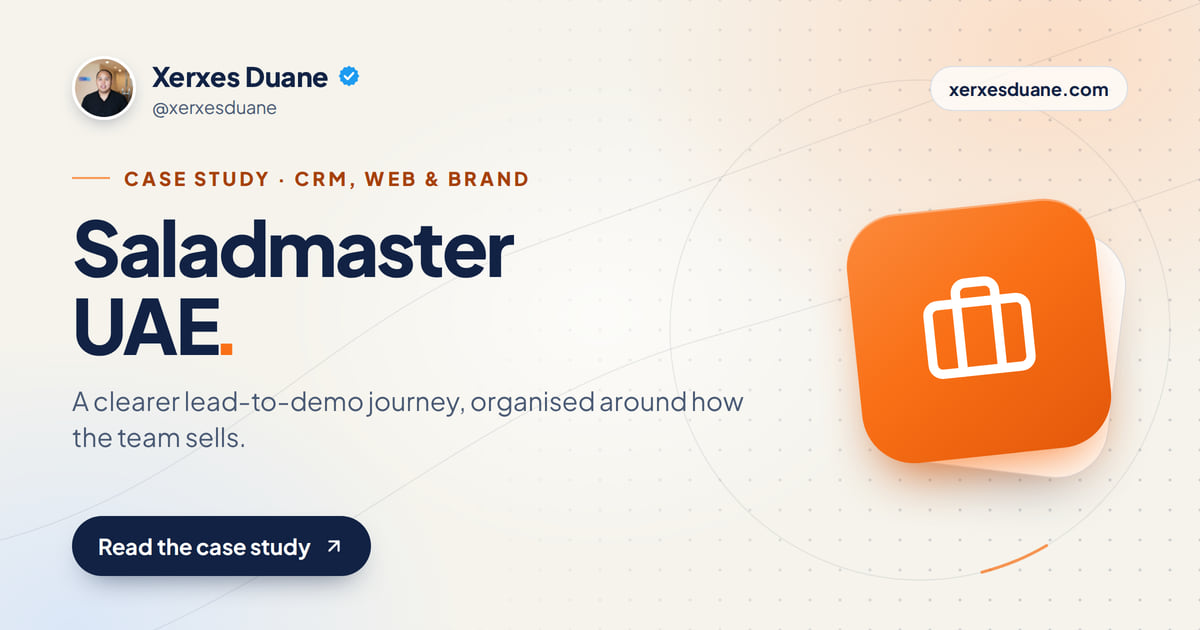
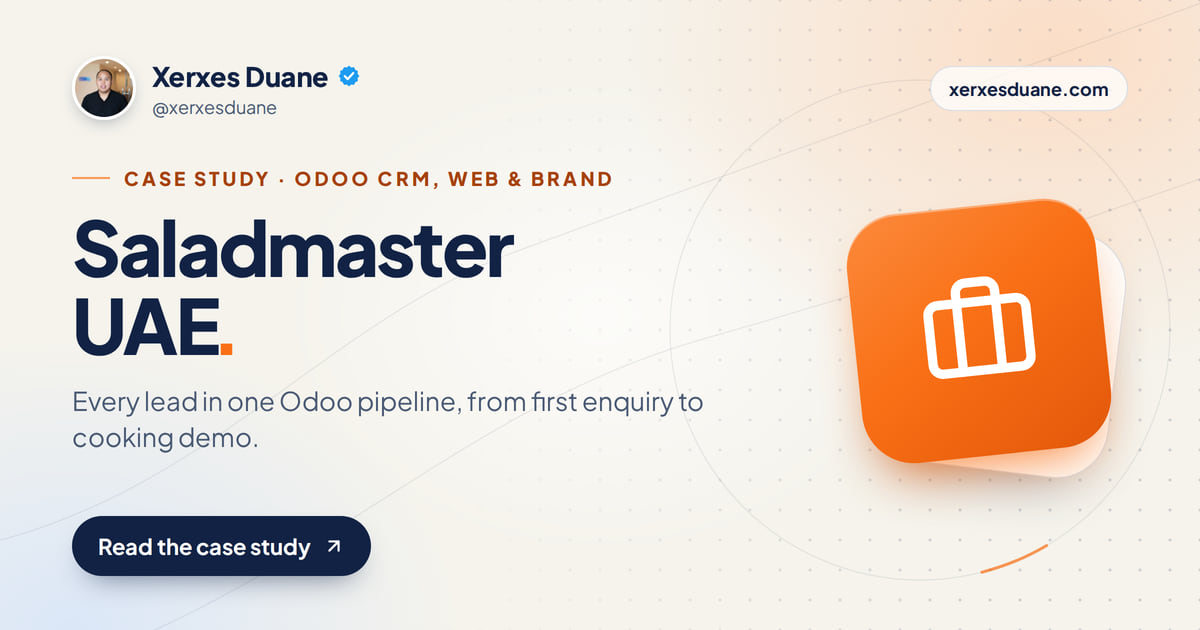
Saladmaster case study: Odoo CRM, lead sources and automation
Adds the facts the owner confirmed on 9 Oct 2026: the CRM is Odoo; leads
from the website, WhatsApp, cooking demos/events and referrals go into one
pipeline; demo bookings sit on a calendar tied to each lead; team reminders,
WhatsApp/email follow-up sequences and pipeline/sales dashboards. URL kept.
No outcome or timeline yet (open in docs/case-study-briefs.md). New share
card, so OG_IMAGE_VERSION is bumped.

Claude-Session: https://claude.ai/code/session_01J4BMNAVeyfMRXf7zEAakke

Changed region(s): [[0.0617, 0.6032, 0.6167, 0.7238], [0.2467, 0.2714, 0.5242, 0.3016]]

diff --git a/src/data/content.ts b/src/data/content.ts
@@ -457,10 +457,10 @@ export const CASE_STUDIES: CaseStudy[] = [
   {
     slug: "saladmaster-crm-web",
     metaDescription:
-      "CRM, web and brand work for Saladmaster UAE, a premium cookware business: a clearer lead-to-demo journey built around how the sales team actually works.",
+      "Odoo CRM for Saladmaster UAE, a premium cookware business: website, WhatsApp, demo and referral leads in one pipeline, with follow-up automation and dashboards.",
     client: "Saladmaster UAE",
     location: "UAE · Premium Cookware",
-    category: "CRM, Web & Brand",
+    category: "Odoo CRM, Web & Brand",
     // Not a mismatch: Saladmaster UAE trades as Al Mumtaz, and this is their
     // mark — the same pairing the portfolio uses for the brand-identity piece
     // ("Saladmaster UAE (Al Mumtaz)", saladmasteruae.me) in data/workItems.ts.
@@ -468,12 +468,16 @@ export const CASE_STUDIES: CaseStudy[] = [
     challenge:
       "A premium cookware and direct-sales brand needed a smoother customer journey, from first inquiry through cooking demo to sale, with real visibility into follow-ups.",
     summary:
-      "A clearer lead-to-demo journey, with customer information and follow-up activity organized around the way the sales team actually works.",
+      "Odoo CRM set up as one pipeline for leads from the website, WhatsApp, cooking demos and referrals, with demo bookings, team reminders, follow-up sequences and dashboards built around how the sales team works.",
+    // Platform, lead sources and automation confirmed by the owner (9 Oct
+    // 2026). No outcome or timeline yet: add `outcomes` when there is one the
+    // client agrees with. See docs/case-study-briefs.md.
     approach: [
-      "Mapped the journey from enquiry to cooking demo and sale",
-      "Structured lead capture and follow-up around real sales conversations",
-      "Connected the website and booking experience to customer management",
-      "Created clearer visibility for the team without adding admin overhead",
+      "Set up Odoo CRM as the one record for every lead and customer",
+      "Brought website, WhatsApp, cooking-demo and event, and referral leads into the same pipeline",
+      "Tied cooking-demo bookings to a calendar linked to each lead",
+      "Automated reminders for the team and WhatsApp and email follow-up sequences for leads",
+      "Built pipeline and sales dashboards for the owner",
     ],
     relatedServices: [
       "crm-development-dubai",
@@ -481,16 +485,19 @@ export const CASE_STUDIES: CaseStudy[] = [
       "branding-graphic-design-dubai",
     ],
     scope: [
-      "Lead capture & inquiries",
-      "Booking for cooking demos",
-      "Customer relationship management",
+      "Odoo CRM",
+      "Leads from website, WhatsApp, demos & referrals",
+      "Cooking-demo booking calendar",
+      "Team reminders",
+      "WhatsApp & email follow-up sequences",
+      "Pipeline & sales dashboards",
       "Website management",
       "Logo & brand identity design",
       "Sales process organization",
       "Marketing & engagement",
     ],
     takeaway:
-      "Centralized lead management and a clearer path from inquiry to demo to conversion across sales and engagement.",
+      "Every lead in one Odoo pipeline, with demo bookings, follow-ups and reporting attached to it.",
   },
   /* HIDDEN (re-add later): Fellowship Dubai case study
   {

diff --git a/src/data/servicePages.ts b/src/data/servicePages.ts
@@ -799,7 +799,7 @@ export const SERVICE_PAGES: ServicePageData[] = [
         { label: "What you get", value: "Pipeline stages and ownership, website and WhatsApp lead capture with the source recorded, follow-up automation, dashboards, and clean-up of an existing CRM where there is one." },
         { label: "Starting price", value: `${cap(from("crm-development-dubai"))} for a CRM or dashboard build. ${NONPROFIT.label} for registered charities.` },
         { label: "Timeline", value: "A focused setup can take a few weeks; complex migrations are phased so the core pipeline is usable early." },
-        { label: "Proof", value: "Saladmaster UAE: a clearer lead-to-demo journey organised around how the sales team actually works." },
+        { label: "Proof", value: "Saladmaster UAE: Odoo CRM with website, WhatsApp, demo and referral leads in one pipeline, demo bookings, follow-up sequences and dashboards." },
         { label: "Next step", value: "A free 60-minute audit, then a written fixed-price proposal." },
       ],
     },

diff --git a/src/lib/seo.ts b/src/lib/seo.ts
@@ -63,7 +63,7 @@ const DEFAULT_OG_IMAGE = ogCard("home");
  * OG image by URL for weeks, so a versioned query string forces them to fetch
  * the current image instead of serving a stale (or wrong) cached one.
  */
-const OG_IMAGE_VERSION = "9";
+const OG_IMAGE_VERSION = "10";
 
 /** Absolute, cache-busted share-image URL for a page. */
 function ogImageUrl(image?: string): string {

diff --git a/docs/case-study-briefs.md b/docs/case-study-briefs.md
@@ -40,18 +40,18 @@ have one, answer the same questions for it.
 
 ---
 
-## 2. CRM: Saladmaster UAE (published, needs outcomes)
+## 2. CRM: Saladmaster UAE (updated 9 Oct 2026, outcome still open)
 
-**Already public** (`/case-studies/saladmaster-crm-web`): premium cookware,
-direct sales; lead capture, booking for cooking demos, CRM, website
-management, logo and brand identity, sales-process organisation.
+**Now public** (`/case-studies/saladmaster-crm-web`), confirmed by the owner:
+Odoo CRM; leads from the website, WhatsApp, cooking demos/events and
+referrals in one pipeline; a demo booking calendar tied to each lead; team
+reminders; WhatsApp and email follow-up sequences; pipeline and sales
+dashboards. Plus the original scope (website management, logo and brand
+identity, sales-process organisation).
 
-**To confirm**
+**Still to confirm**
 
-- [ ] Which CRM (Odoo CRM, HubSpot, Zoho, custom?)
-- [ ] Where leads come from now (website form, WhatsApp, events, referrals) and whether the source is recorded automatically
-- [ ] Pipeline stages you set up (enquiry → demo booked → demo held → sale, or similar)
-- [ ] Follow-up automation built (reminders, WhatsApp/email sequences)
+- [ ] Whether the CRM records each lead's source automatically
 - [ ] One before/after the client agrees with (for example, "every demo booking is now in one calendar", "no lead sits without an owner")
 - [ ] Timeline of the build
 - [ ] OK to keep naming Saladmaster UAE / Al Mumtaz?
